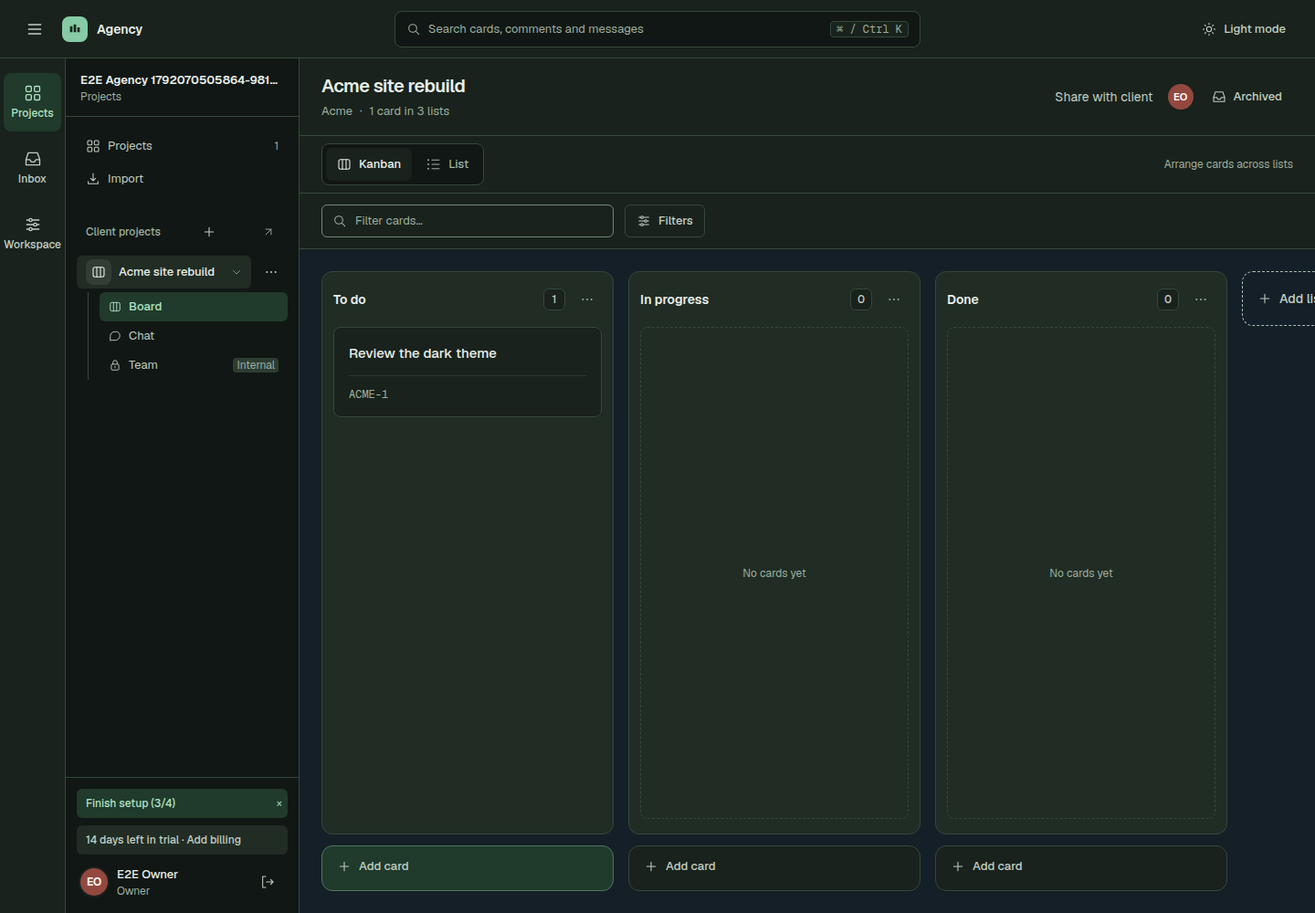
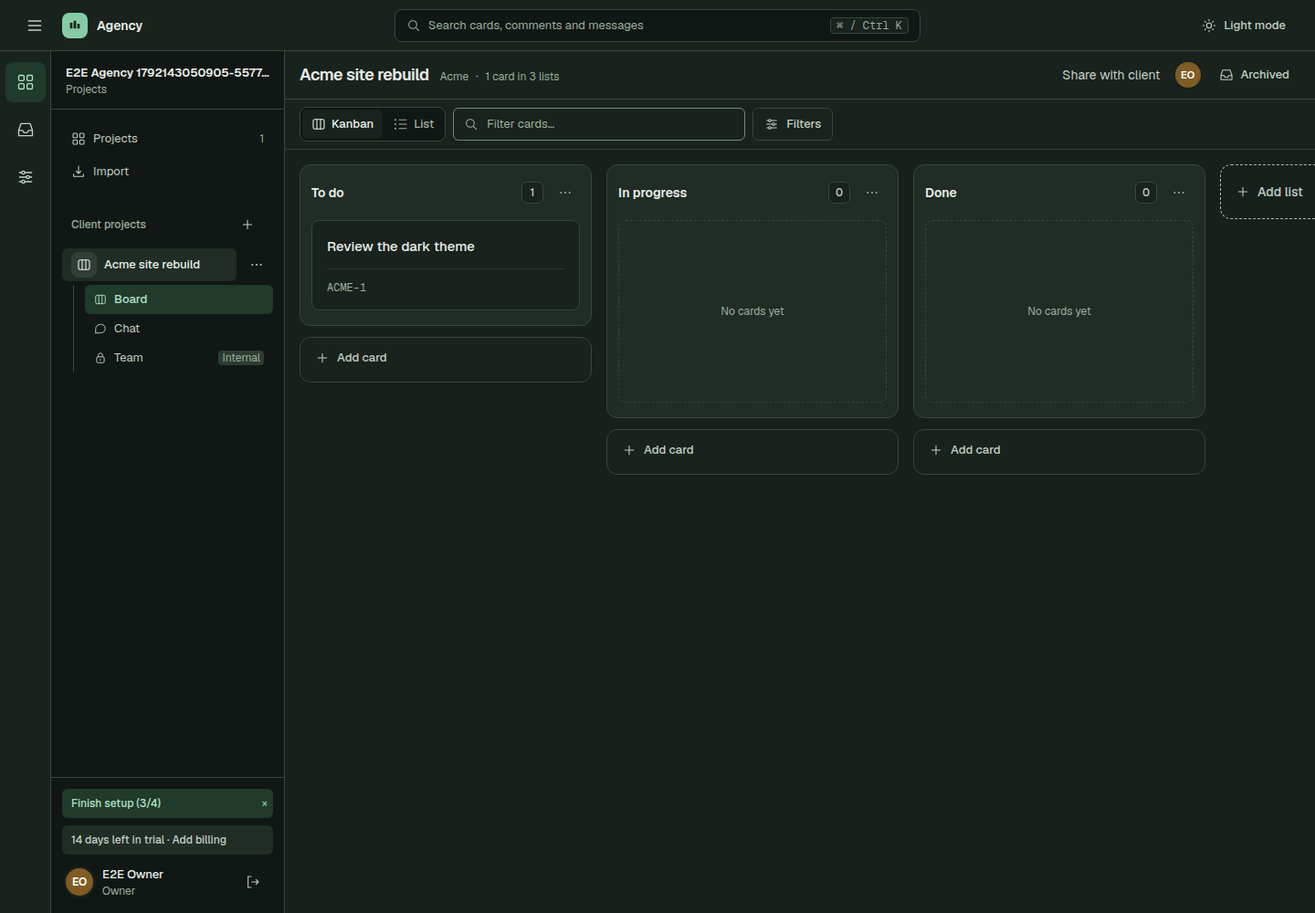
Compact board controls and size Kanban columns to content

diff --git a/src/components/board/board.tsx b/src/components/board/board.tsx
@@ -11,6 +11,7 @@ import {
   useSensor,
   useSensors,
   type CollisionDetection,
+  type ClientRect,
   type KeyboardCoordinateGetter,
   type DragEndEvent,
   type DragOverEvent,
@@ -52,11 +53,20 @@ function resolveOver(board: Board, overId: string): { listId: string; index: num
   return found ? { listId: found.list.id, index: found.index } : null;
 }
 
-/** Lists only collide with lists; cards collide with cards and list bodies. */
+/** Compare list headers (60px), so columns with different card counts have the same drag target. */
+const listHeaderRect = (rect: ClientRect): ClientRect => ({
+  left: rect.left, right: rect.right, width: rect.width,
+  top: rect.top, bottom: rect.top + 60, height: 60,
+});
+
+/** Lists only collide with list headers; cards collide with cards and list bodies. */
 const collision: CollisionDetection = (args) => {
   const isList = args.active.data.current?.type === 'list';
   const droppableContainers = args.droppableContainers.filter((c) => (c.data.current?.type === 'list') === isList);
-  return isList ? closestCenter({ ...args, droppableContainers }) : closestCorners({ ...args, droppableContainers });
+  return isList ? closestCenter({
+    ...args, droppableContainers, collisionRect: listHeaderRect(args.collisionRect),
+    droppableRects: new Map([...args.droppableRects].map(([id, rect]) => [id, listHeaderRect(rect)])),
+  }) : closestCorners({ ...args, droppableContainers });
 };
 
 /** List keyboard moves must ignore the inset card-drop zones inside each list. */
@@ -64,8 +74,11 @@ const boardKeyboardCoordinates: KeyboardCoordinateGetter = (event, args) => {
   if (args.context.active?.data.current?.type !== 'list') return sortableKeyboardCoordinates(event, args);
   const droppableRects = new Map([...args.context.droppableRects].filter(([id]) =>
     args.context.droppableContainers.get(id)?.data.current?.type === 'list',
-  ));
-  return sortableKeyboardCoordinates(event, { ...args, context: { ...args.context, droppableRects } });
+  ).map(([id, rect]) => [id, listHeaderRect(rect)]));
+  return sortableKeyboardCoordinates(event, { ...args, context: {
+    ...args.context, droppableRects,
+    collisionRect: args.context.collisionRect ? listHeaderRect(args.context.collisionRect) : null,
+  } });
 };
 
 export function BoardScreen({ boardId, projectId }: { boardId: string; projectId: string }) {
@@ -196,12 +209,12 @@ export function BoardScreen({ boardId, projectId }: { boardId: string; projectId
   return (
     <div data-testid="board-canvas" className="flex h-full bg-board-canvas">
       <div className="flex min-w-0 flex-1 flex-col">
-        <div className="flex shrink-0 flex-wrap items-center gap-x-4 gap-y-3 border-b border-border bg-surface px-4 py-4 sm:px-6">
-          <div className="min-w-0 grow basis-48">
-            <h1 className="truncate text-xl font-semibold leading-7" data-testid="board-title">
+        <div data-testid="board-project-header" className="flex shrink-0 flex-wrap items-center gap-x-4 gap-y-1 border-b border-border bg-surface px-4 py-2">
+          <div className="flex min-w-0 grow basis-40 flex-wrap items-baseline gap-x-3 gap-y-0.5">
+            <h1 className="min-w-0 max-w-full truncate text-lg font-semibold leading-6" data-testid="board-title">
               {shown.project.name}
             </h1>
-            <p className="mt-1 flex flex-wrap items-center gap-x-2 text-label text-muted-foreground">
+            <p className="flex min-w-0 flex-wrap items-center gap-x-2 text-caption text-muted-foreground">
               {shown.project.clientName ? <><span className="truncate">{shown.project.clientName}</span><span aria-hidden="true">·</span></> : null}
               <span>{totalCards} {totalCards === 1 ? 'card' : 'cards'} in {shown.lists.length} {shown.lists.length === 1 ? 'list' : 'lists'}</span>
             </p>
@@ -216,14 +229,12 @@ export function BoardScreen({ boardId, projectId }: { boardId: string; projectId
             <ArchivedCards boardId={boardId} cardHref={cardHref} />
           </div>
         </div>
-        <div className="flex shrink-0 flex-wrap items-center justify-between gap-3 border-b border-border bg-surface px-4 py-2 sm:px-6">
-          <div role="group" aria-label="Board view" className="inline-flex gap-1 rounded-lg border border-border bg-background p-1">
-            <button type="button" aria-pressed={view === 'kanban'} onClick={() => setView('kanban')} className={`ui-button tap ${view === 'kanban' ? 'bg-surface text-foreground shadow-sm' : 'text-muted-foreground hover:bg-subtle'}`}><Icon name="board" />Kanban</button>
-            <button type="button" aria-pressed={view === 'list'} onClick={() => setView('list')} className={`ui-button tap ${view === 'list' ? 'bg-surface text-foreground shadow-sm' : 'text-muted-foreground hover:bg-subtle'}`}><Icon name="list" />List</button>
+        <FilterBar filters={filters} onChange={setFilters} members={activeMembers} labels={labels.data?.data ?? []} leading={
+          <div role="group" aria-label="Board view" className="inline-flex shrink-0 gap-0.5 rounded-lg border border-border bg-background p-0.5">
+            <button type="button" aria-pressed={view === 'kanban'} onClick={() => setView('kanban')} className={`ui-button tap min-h-8 gap-1.5 px-2.5 ${view === 'kanban' ? 'bg-surface text-foreground shadow-sm' : 'text-muted-foreground hover:bg-subtle'}`}><Icon name="board" />Kanban</button>
+            <button type="button" aria-pressed={view === 'list'} onClick={() => setView('list')} className={`ui-button tap min-h-8 gap-1.5 px-2.5 ${view === 'list' ? 'bg-surface text-foreground shadow-sm' : 'text-muted-foreground hover:bg-subtle'}`}><Icon name="list" />List</button>
           </div>
-          <p className="text-caption text-muted-foreground">{view === 'list' ? 'Cards grouped by list' : 'Arrange cards across lists'}</p>
-        </div>
-        <FilterBar filters={filters} onChange={setFilters} members={activeMembers} labels={labels.data?.data ?? []} />
+        } />
 
         {view === 'kanban' && shown.lists.length ? (
           <div className="flex shrink-0 gap-2 overflow-x-auto border-b border-border bg-surface px-4 py-2 sm:hidden" role="tablist" aria-label="Lists">
@@ -242,10 +253,7 @@ export function BoardScreen({ boardId, projectId }: { boardId: string; projectId
           </div>
         ) : null}
 
-        {totalCards === 0 && !filtering ? (
-          <p className="mx-4 mt-4 shrink-0 rounded-lg border border-primary-border bg-primary-subtle px-4 py-3 text-label text-primary-text sm:mx-6">Add your first card to get started.</p>
-        ) : null}
-        {filtering ? <p className="mx-4 mt-3 shrink-0 text-caption text-muted-foreground sm:mx-6">{view === 'kanban' ? 'Filters are on — clear them to drag cards.' : 'Filters apply to cards in every list.'}</p> : null}
+        {filtering ? <p className="mx-4 mt-3 shrink-0 text-caption text-muted-foreground">{view === 'kanban' ? 'Filters are on — clear them to drag cards.' : 'Filters apply to cards in every list.'}</p> : null}
 
         {view === 'list' ? <BoardListView editingListId={editingListId} onListCreated={onListCreated} onListEditFinished={onListEditFinished} board={shown} filters={filters} now={now} cardHref={cardHref} /> : <DndContext
           sensors={sensors}
@@ -255,7 +263,7 @@ export function BoardScreen({ boardId, projectId }: { boardId: string; projectId
           onDragEnd={onDragEnd}
           onDragCancel={() => setDrag(null)}
         >
-          <div className="flex min-h-0 flex-1 items-start gap-4 overflow-auto p-4 sm:p-6" data-testid="board-lists">
+          <div className="flex min-h-0 flex-1 items-start gap-4 overflow-auto p-4" data-testid="board-lists">
             <SortableContext items={shown.lists.map((l) => `list:${l.id}`)} strategy={horizontalListSortingStrategy}>
               {shown.lists.map((l) => (
                 <ListColumn

diff --git a/e2e/list-header.spec.ts b/e2e/list-header.spec.ts
@@ -15,6 +15,18 @@ async function dragHeader(page: Page, source: Locator, destination: Locator, pad
   await page.mouse.up();
 }
 
+async function populateProgress(page: Page) {
+  const progress = list(page, 'In progress');
+  await progress.getByTestId('add-card-end').click();
+  for (const name of ['Review the client brief', 'Prepare the launch checklist', 'Check the final assets']) {
+    await progress.getByLabel('Card title').fill(name);
+    await progress.getByRole('button', { name: 'Add', exact: true }).click();
+    await expect(progress.getByRole('button', { name: new RegExp(name) })).toBeVisible();
+  }
+  await progress.getByRole('button', { name: 'Cancel', exact: true }).click();
+  return progress;
+}
+
 test('board canvas is distinct from the sidebar in light and dark themes', async ({ browser }, info) => {
   const { page } = await signupToBoard(browser, { viewport: { width: 1440, height: 1000 }, colorScheme: 'light' });
   const canvas = page.getByTestId('board-canvas');
@@ -31,7 +43,8 @@ test('board canvas is distinct from the sidebar in light and dark themes', async
 test('header padding and title both reorder columns while controls retain normal behavior', async ({ browser }) => {
   const { page } = await signupToBoard(browser, { viewport: { width: 1440, height: 1000 } });
   const todo = list(page, 'To do');
-  const progress = list(page, 'In progress');
+  const progress = await populateProgress(page);
+  expect((await progress.boundingBox())!.height).toBeGreaterThan((await todo.boundingBox())!.height);
   await expect(page.getByRole('button', { name: /^Move list/ })).toHaveCount(0);
   await dragHeader(page, todo.getByTestId('list-header'), progress.getByTestId('list-header'), true);
   await expect.poll(() => order(page)).toEqual(['List In progress', 'List To do', 'List Done']);
@@ -60,10 +73,15 @@ test('header padding and title both reorder columns while controls retain normal
 
 test('header title supports keyboard reorder, Escape cancellation and API failure recovery', async ({ browser }) => {
   const { page } = await signupToBoard(browser, { viewport: { width: 1440, height: 1000 } });
+  // Column height is content-driven: the neighbor must also be reachable when taller.
+  await populateProgress(page);
   const title = list(page, 'To do').getByRole('button', { name: 'To do', exact: true });
+  const todoId = await list(page, 'To do').getAttribute('data-list-id');
   await title.click({ trial: true });
   await title.focus(); await page.keyboard.press('Space');
   await expect(title).toHaveAttribute('aria-pressed', 'true');
+  // aria-pressed updates before DnD's first measurement; wait for its initial target.
+  await expect(page.getByRole('status')).toContainText(`over droppable area list:${todoId}`);
   const progressId = await list(page, 'In progress').getAttribute('data-list-id');
   await page.keyboard.press('ArrowRight');
   await expect(page.getByRole('status')).toContainText(`over droppable area list:${progressId}`);
@@ -73,6 +91,7 @@ test('header title supports keyboard reorder, Escape cancellation and API failur
   await title.click({ trial: true });
   await title.focus(); await page.keyboard.press('Space');
   await expect(title).toHaveAttribute('aria-pressed', 'true');
+  await expect(page.getByRole('status')).toContainText(`over droppable area list:${todoId}`);
   await page.keyboard.press('ArrowRight');
   await expect(page.getByRole('status')).toContainText(`over droppable area list:${progressId}`);
   await page.keyboard.press('Space');
@@ -82,6 +101,7 @@ test('header title supports keyboard reorder, Escape cancellation and API failur
   await title.click({ trial: true });
   await title.focus(); await page.keyboard.press('Space');
   await expect(title).toHaveAttribute('aria-pressed', 'true');
+  await expect(page.getByRole('status')).toContainText(`over droppable area list:${todoId}`);
   await page.keyboard.press('ArrowLeft');
   await expect(page.getByRole('status')).toContainText(`over droppable area list:${progressId}`);
   await page.keyboard.press('Space');

diff --git a/src/components/navigation/workspace-shell.tsx b/src/components/navigation/workspace-shell.tsx
@@ -48,19 +48,19 @@ export function WorkspaceShell({ children }: { children: ReactNode }) {
   return (
     <div className="flex h-dvh min-w-0 flex-col overflow-hidden">
       <a href="#workspace-content" className="sr-only z-50 rounded-md bg-surface p-3 text-primary focus:not-sr-only focus:fixed focus:left-4 focus:top-4">Skip to content</a>
-      <header aria-label="Application bar" data-testid="workspace-header" className="grid h-16 shrink-0 grid-cols-[auto_minmax(0,1fr)_auto] items-center gap-2 border-b border-border bg-surface px-3 sm:gap-4 sm:px-5 lg:grid-cols-[1fr_minmax(20rem,36rem)_1fr]">
+      <header aria-label="Application bar" data-testid="workspace-header" className="grid h-14 shrink-0 grid-cols-[auto_minmax(0,1fr)_auto] items-center gap-2 border-b border-border bg-surface px-3 sm:gap-4 sm:px-5 lg:grid-cols-[1fr_minmax(20rem,36rem)_1fr]">
         <div className="flex min-w-0 items-center gap-3">
           <Button variant="ghost" size="icon" className="lg:hidden" aria-label="Open navigation" aria-expanded={open} aria-haspopup="dialog" data-tour={projectId ? 'client-channel' : undefined} onClick={() => setOpen(true)}><Icon name="menu" className="size-5" /></Button>
           <Button variant="ghost" size="icon" className="hidden lg:inline-flex" aria-label={sidebarVisible ? 'Close sidebar' : 'Open sidebar'} aria-expanded={sidebarVisible} aria-controls="desktop-sidebar" onClick={() => setSidebarVisible((visible) => !visible)}><Icon name="menu" className="size-5" /></Button>
           <Link href={`/w/${ws.slug}/projects`} aria-label="Agency home" className="hidden min-w-0 items-center gap-2.5 rounded-md sm:flex"><BrandMark /><span className="truncate text-body font-semibold">Agency</span></Link>
         </div>
-        <button type="button" aria-label="Search workspace" onClick={search} className="tap flex min-h-10 min-w-0 items-center gap-2 rounded-lg border border-border bg-background px-3 text-label text-muted-foreground hover:border-input hover:bg-subtle">
+        <button type="button" aria-label="Search workspace" onClick={search} className="tap flex min-h-9 min-w-0 items-center gap-2 rounded-lg border border-border bg-background px-3 text-label text-muted-foreground hover:border-input hover:bg-subtle">
           <Icon name="search" /><span className="truncate">Search<span className="hidden sm:inline"> cards, comments and messages</span></span><kbd className="ml-auto hidden shrink-0 rounded border border-border bg-surface px-1.5 text-caption sm:inline">⌘ / Ctrl K</kbd>
         </button>
         <div className="justify-self-end"><ThemeToggle /></div>
       </header>
       <div className="flex min-h-0 min-w-0 flex-1">
-        <aside aria-label="Module rail" className="hidden w-[72px] shrink-0 border-r border-border bg-surface lg:block">
+        <aside aria-label="Module rail" className="hidden w-14 shrink-0 border-r border-border bg-surface lg:block">
           <ModuleRail activeModule={activeModule} />
         </aside>
         <aside id="desktop-sidebar" aria-label="Workspace sidebar" className={`${sidebarVisible ? 'hidden lg:block' : 'hidden'} w-64 shrink-0 border-r border-border bg-background`}>
@@ -68,7 +68,7 @@ export function WorkspaceShell({ children }: { children: ReactNode }) {
         </aside>
         {open ? <NavigationDrawer onClose={close}>
           <div className="flex h-full min-w-0">
-            <div className="w-[72px] shrink-0 border-r border-border bg-surface"><ModuleRail activeModule={activeModule} onNavigate={close} /></div>
+            <div className="w-14 shrink-0 border-r border-border bg-surface"><ModuleRail activeModule={activeModule} onNavigate={close} /></div>
             <div className="min-w-0 flex-1"><WorkspaceSidebar data={data} projectId={projectId} activeModule={activeModule} onNavigate={close} onClose={close} /></div>
           </div>
         </NavigationDrawer> : null}

diff --git a/e2e/board-list-view.spec.ts b/e2e/board-list-view.spec.ts
@@ -34,8 +34,19 @@ test('Add list creates a full column immediately and focuses its inline name wit
   const [tileBox, columnBox, headerBox, areaBox, emptyBox] = await Promise.all([tile.boundingBox(), column.boundingBox(), column.getByTestId('list-header').boundingBox(), column.getByTestId('list-cards').boundingBox(), column.getByTestId('list-empty-state').boundingBox()]);
   expect(tileBox!.width).toBe(columnBox!.width); expect(tileBox!.width).toBe(320);
   expect(tileBox!.height).toBe(headerBox!.height); expect(tileBox!.height).toBe(60);
-  expect(emptyBox!.height).toBeGreaterThan(200);
+  expect(emptyBox!.height).toBeGreaterThanOrEqual(200);
+  expect(emptyBox!.height).toBeLessThanOrEqual(201);
+  expect(columnBox!.height).toBeLessThan(360);
   expect(Math.abs(areaBox!.height - 4 - emptyBox!.height)).toBeLessThan(2);
+  // Board controls share one compact row, leaving the work area close to the app bar.
+  const toolbar = page.getByTestId('board-toolbar');
+  const views = toolbar.getByRole('group', { name: 'Board view', exact: true });
+  const search = toolbar.getByRole('searchbox', { name: 'Filter cards' });
+  const [toolbarBox, viewsBox, searchBox, projectBox, barBox, listsBox] = await Promise.all([toolbar.boundingBox(), views.boundingBox(), search.boundingBox(), page.getByTestId('board-project-header').boundingBox(), page.getByTestId('workspace-header').boundingBox(), page.getByTestId('board-lists').boundingBox()]);
+  expect(toolbarBox!.height).toBeLessThanOrEqual(56);
+  expect(projectBox!.height).toBeLessThanOrEqual(56);
+  expect(Math.abs(viewsBox!.y + viewsBox!.height / 2 - searchBox!.y - searchBox!.height / 2)).toBeLessThan(2);
+  expect(listsBox!.y - barBox!.height).toBeLessThanOrEqual(112);
   await page.screenshot({ path: info.outputPath('kanban-empty-height.png'), fullPage: true, animations: 'disabled', style: 'nextjs-portal { visibility: hidden; }' });
   await page.route('**/api/v1/boards/*/lists', (route) => route.fulfill({ status: 500, json: { error: { code: 'internal', message: 'Could not create the list.' } } }));
   await tile.click();
@@ -51,7 +62,7 @@ test('Add list creates a full column immediately and focuses its inline name wit
   await expect(name).toHaveValue('New list');
   expect(await name.evaluate((element: HTMLInputElement) => element.selectionStart === 0 && element.selectionEnd === element.value.length)).toBe(true);
   await expect(created.getByRole('button', { name: 'Cancel', exact: true })).toHaveCount(0);
-  await page.screenshot({ path: info.outputPath('list-created-inline.png'), fullPage: true, animations: 'disabled', style: 'nextjs-portal { visibility: hidden; }' });
+  await page.screenshot({ path: info.outputPath('list-created-inline.png'), fullPage: true, animations: 'disabled', style: 'nextjs-portal, [data-testid="toast"] { visibility: hidden; }' });
   await page.route('**/api/v1/lists/*', async (route) => {
     if (route.request().method() === 'PATCH') await route.fulfill({ status: 500, json: { error: { code: 'internal', message: 'Could not save the list name.' } } });
     else await route.continue();

diff --git a/src/components/navigation/workspace-sidebar.tsx b/src/components/navigation/workspace-sidebar.tsx
@@ -78,7 +78,7 @@ export function WorkspaceSidebar({ data, projectId, activeModule, onNavigate, on
           </nav>
 
           <nav aria-label="Projects" className="mt-6">
-            <div className="mb-2 flex items-center justify-between px-2.5 text-caption font-medium text-muted-foreground"><span>Client projects</span><Button variant="ghost" size="icon" aria-label="Add project" onClick={() => setCreating(true)}><Icon name="plus" /></Button><Link href={`${base}/projects`} onClick={onNavigate} aria-label="View all projects" className="tap inline-flex items-center rounded px-1 hover:text-primary"><Icon name="arrow" className="size-3.5" /></Link></div>
+            <div className="mb-2 flex items-center justify-between px-2.5 text-caption font-medium text-muted-foreground"><span>Client projects</span><Button variant="ghost" size="icon" aria-label="Add project" onClick={() => setCreating(true)}><Icon name="plus" /></Button></div>
             {data.pending ? <p role="status" className="px-2.5 py-2 text-caption text-muted-foreground">Loading projects…</p> : null}
             {data.error ? <div role="alert" className="space-y-2 rounded-md border border-danger-border bg-danger-subtle p-2.5 text-caption text-danger-text"><p>{data.error}</p><Button variant="secondary" size="sm" onClick={data.retry}>Try again</Button></div> : null}
             {!data.pending && !data.error && data.projects.length === 0 ? <p className="px-2.5 py-2 text-caption text-muted-foreground">Your client projects will appear here.</p> : null}
@@ -99,7 +99,6 @@ export function WorkspaceSidebar({ data, projectId, activeModule, onNavigate, on
                         <span className={`flex size-7 shrink-0 items-center justify-center rounded-lg text-foreground ${PROJECT_ICON_BG[project.color] ?? 'bg-subtle'}`}><Icon name="board" className="size-4" /></span>
                         <span className="min-w-0 flex-1 truncate">{project.name}</span>
                         {unread ? <UnreadDot label={`Unread messages in ${project.name}`} /> : null}
-                        {current ? <Icon name="chevron" className="size-3 rotate-90 text-muted-foreground" /> : null}
                       </Link>
                       <ProjectMenu project={project} onNavigate={onNavigate} />
                     </div>

diff --git a/src/components/board/filter-bar.tsx b/src/components/board/filter-bar.tsx
@@ -1,6 +1,6 @@
 'use client';
 
-import { useState } from 'react';
+import { useState, type ReactNode } from 'react';
 import { Icon } from '@/components/icon';
 import { Avatar, Input, LABEL_BG } from '@/components/ui';
 import { EMPTY_FILTERS, isFiltering, type BoardFilters, type DueFilter } from '@/lib/filters';
@@ -13,18 +13,21 @@ export function FilterBar({
   onChange,
   members,
   labels,
+  leading,
 }: {
   filters: BoardFilters;
   onChange: (f: BoardFilters) => void;
   members: Member[];
   labels: Label[];
+  leading?: ReactNode;
 }) {
   const [open, setOpen] = useState(isFiltering(filters));
   const active = isFiltering(filters);
   return (
-    <div className="shrink-0 border-b border-border bg-surface px-4 py-3 sm:px-6">
-      <div className="flex flex-wrap items-center gap-3">
-        <div className="relative min-w-0 flex-1 sm:max-w-xs">
+    <div data-testid="board-toolbar" className="shrink-0 border-b border-border bg-surface px-4 py-2">
+      <div className="flex flex-wrap items-center gap-2">
+        {leading}
+        <div className="relative order-last w-full min-w-0 sm:order-none sm:w-auto sm:min-w-32 sm:flex-1 sm:max-w-xs">
           <Icon name="search" className="pointer-events-none absolute left-3 top-1/2 size-4 -translate-y-1/2 text-muted-foreground" />
           <Input
             type="search"
@@ -39,7 +42,7 @@ export function FilterBar({
           type="button"
           aria-expanded={open}
           onClick={() => setOpen((o) => !o)}
-          className={`ui-button tap border border-border ${active ? 'bg-primary-muted text-primary-text' : 'text-secondary-foreground hover:bg-subtle'}`}
+          className={`ui-button tap ml-auto border border-border sm:ml-0 ${active ? 'bg-primary-muted text-primary-text' : 'text-secondary-foreground hover:bg-subtle'}`}
         >
           <Icon name="settings" />Filters{active ? <span className="size-1.5 rounded-full bg-primary" aria-label="Active filters" /> : null}
         </button>

diff --git a/e2e/navigation.spec.ts b/e2e/navigation.spec.ts
@@ -8,13 +8,15 @@ test('the sidebar owns workspace and project destinations while headers retain l
   const rail = page.getByRole('complementary', { name: 'Module rail' });
   const modules = rail.getByRole('navigation', { name: 'Main modules' });
   await expect(rail).toBeVisible();
-  expect((await rail.boundingBox())!.width).toBe(72);
+  expect((await rail.boundingBox())!.width).toBe(56);
   const [railBox, sidebarBox] = await Promise.all([rail.boundingBox(), sidebar.boundingBox()]);
   expect(railBox!.x + railBox!.width).toBe(sidebarBox!.x);
   await expect(modules.getByRole('link', { name: 'Projects', exact: true })).toHaveAttribute('aria-current', 'location');
   await expect(sidebar.getByRole('link', { name: 'Members', exact: true })).toHaveCount(0);
   await expect(sidebar.getByRole('link', { name: 'Board', exact: true })).toHaveAttribute('aria-current', 'page');
   await expect(sidebar.getByTestId('internal-badge')).toHaveText('Internal');
+  await expect(sidebar.getByRole('link', { name: 'View all projects' })).toHaveCount(0);
+  await expect(sidebar.getByRole('button', { name: 'Add project', exact: true })).toBeVisible();
   await expect(page.getByTestId('workspace-header').getByRole('navigation')).toHaveCount(0);
   await expect(page.getByRole('button', { name: 'Share with client' })).toBeVisible();
 
@@ -92,7 +94,7 @@ test('mobile drawer traps focus, closes on navigation/Escape/backdrop, and hands
 
   await trigger.click();
   const modules = drawer.getByRole('navigation', { name: 'Main modules' });
-  expect(await drawer.getByTestId('module-rail').evaluate((element) => element.parentElement!.getBoundingClientRect().width)).toBe(72);
+  expect(await drawer.getByTestId('module-rail').evaluate((element) => element.parentElement!.getBoundingClientRect().width)).toBe(56);
   await modules.getByRole('link', { name: 'Workspace', exact: true }).click();
   await expect(drawer).toHaveCount(0);
   await expect(page).toHaveURL(/\/settings\/members$/);

diff --git a/src/components/board/list-column.tsx b/src/components/board/list-column.tsx
@@ -32,7 +32,7 @@ export function ListColumn({ list, cards, board, now, cardHref, dndDisabled, sta
       aria-label={`List ${list.name}`}
       data-testid="list-column"
       data-list-id={list.id}
-      className={`h-full max-h-full min-h-64 w-full shrink-0 flex-col gap-3 sm:w-80 ${sortable.isDragging ? 'opacity-40' : ''} ${className}`}
+      className={`max-h-full min-h-0 w-full shrink-0 flex-col gap-3 sm:w-80 ${sortable.isDragging ? 'opacity-40' : ''} ${className}`}
     >
       <div data-testid="list-surface" className="flex min-h-0 flex-1 flex-col rounded-xl border border-border bg-subtle pb-3">
         <ListHeader startEditing={startEditing} onEditingFinished={onEditingFinished} list={list} count={cards.length} boardId={board.id} drag={{
@@ -41,7 +41,7 @@ export function ListColumn({ list, cards, board, now, cardHref, dndDisabled, sta
           disabled: dndDisabled,
         }} />
         <div ref={drop.setNodeRef} data-testid="list-cards" className="flex min-h-0 flex-1 flex-col gap-3 overflow-y-auto overscroll-contain px-3 pb-1">
-          {cards.length === 0 ? <p data-testid="list-empty-state" className="flex min-h-24 flex-1 items-center justify-center rounded-lg border border-dashed border-border px-3 py-6 text-center text-caption text-muted-foreground">{list.cards.length ? 'No matching cards' : 'No cards yet'}</p> : null}
+          {cards.length === 0 ? <p data-testid="list-empty-state" className="flex min-h-[200px] shrink-0 items-center justify-center rounded-lg border border-dashed border-border px-3 py-6 text-center text-caption text-muted-foreground">{list.cards.length ? 'No matching cards' : 'No cards yet'}</p> : null}
           <SortableContext items={cards.map((c) => c.id)} strategy={verticalListSortingStrategy}>
             {cards.map((c) => (
               <SortableCard key={c.id} card={c} projectKey={board.project.key} now={now} href={cardHref(c.id)} disabled={dndDisabled} />

diff --git a/src/components/navigation/module-rail.tsx b/src/components/navigation/module-rail.tsx
@@ -6,19 +6,19 @@ import { NotificationBell } from '@/components/notifications';
 import { useWorkspace } from '@/lib/workspace';
 import type { WorkspaceModule } from './workspace-modules';
 
-/** The 72px rail switches modules; the neighboring sidebar owns their details. */
+/** The 56px rail switches modules; the neighboring sidebar owns their details. */
 export function ModuleRail({ activeModule, onNavigate }: { activeModule: WorkspaceModule; onNavigate?: () => void }) {
   const ws = useWorkspace();
   const base = `/w/${ws.slug}`;
   return (
     <div className="flex h-full flex-col" data-testid="module-rail">
-      <nav aria-label="Main modules" className="flex min-h-0 flex-1 flex-col items-center gap-2 overflow-y-auto px-1 py-4">
+      <nav aria-label="Main modules" className="flex min-h-0 flex-1 flex-col items-center gap-2 overflow-y-auto px-1 py-3">
         <Link href={`${base}/projects`} onClick={onNavigate} title="Projects" aria-current={activeModule === 'projects' ? 'location' : undefined} className="ui-module-link tap">
-          <Icon name="projects" className="size-5" /><span>Projects</span>
+          <Icon name="projects" className="size-5" /><span className="sr-only">Projects</span>
         </Link>
         <NotificationBell active={activeModule === 'inbox'} onNavigate={onNavigate} />
         <Link href={`${base}/settings/members`} onClick={onNavigate} title="Workspace" aria-current={activeModule === 'workspace' ? 'location' : undefined} className="ui-module-link tap">
-          <Icon name="settings" className="size-5" /><span>Workspace</span>
+          <Icon name="settings" className="size-5" /><span className="sr-only">Workspace</span>
         </Link>
       </nav>
     </div>

diff --git a/src/app/globals.css b/src/app/globals.css
@@ -48,7 +48,7 @@
   .ui-page { @apply mx-auto w-full max-w-5xl px-4 py-6 sm:px-8 sm:py-8; }
   .ui-nav-link { @apply flex min-h-8 items-center gap-2 rounded-md px-2.5 py-1 text-label text-secondary-foreground hover:bg-subtle hover:text-foreground; }
   .ui-nav-link[aria-current='page'] { @apply bg-primary-subtle font-medium text-primary-text; }
-  .ui-module-link { @apply flex min-h-16 w-full max-w-16 shrink-0 flex-col items-center justify-center gap-1 rounded-lg py-2 text-caption font-medium text-secondary-foreground hover:bg-subtle hover:text-foreground active:bg-muted focus-visible:outline-offset-1; }
+  .ui-module-link { @apply flex h-11 w-11 shrink-0 items-center justify-center rounded-lg text-secondary-foreground hover:bg-subtle hover:text-foreground active:bg-muted focus-visible:outline-offset-1; }
   .ui-module-link[aria-current='location'] { @apply bg-primary-subtle text-primary-text; }
   .ui-tab { @apply inline-flex min-h-8 items-center justify-center gap-2 rounded-md px-3 py-1 text-label text-secondary-foreground hover:bg-subtle; }
   .ui-tab[aria-current='page'], .ui-tab[aria-selected='true'] { @apply bg-primary-subtle font-medium text-primary-text; }

diff --git a/src/components/board/list-view.tsx b/src/components/board/list-view.tsx
@@ -18,7 +18,7 @@ export function BoardListView({ board, filters, now, cardHref, editingListId, on
   editingListId: string | null; onListCreated: (id: string) => void; onListEditFinished: (id: string) => void;
 }) {
   const pathname = usePathname();
-  return <div data-testid="board-list-view" className="@container min-h-0 flex-1 overflow-y-auto overscroll-contain p-4 sm:p-6">
+  return <div data-testid="board-list-view" className="@container min-h-0 flex-1 overflow-y-auto overscroll-contain p-4">
     <div className="space-y-6">
       {board.lists.map((list) => <ListGroup startEditing={editingListId === list.id} onEditingFinished={() => onListEditFinished(list.id)} key={list.id} list={list} cards={list.cards.filter((card) => matchesFilters(card, filters, now))} board={board} now={now} cardHref={cardHref} pathname={pathname} />)}
       <AddList boardId={board.id} onCreated={onListCreated} layout="list" />

diff --git a/e2e/app-bar.spec.ts b/e2e/app-bar.spec.ts
@@ -8,7 +8,7 @@ test('app bar spans the viewport with centered search and a reopenable contextua
   const rail = page.getByRole('complementary', { name: 'Module rail' });
   const search = bar.getByRole('button', { name: 'Search workspace' });
   const [barBox, searchBox, railBox, expanded] = await Promise.all([bar.boundingBox(), search.boundingBox(), rail.boundingBox(), page.locator('#workspace-content').boundingBox()]);
-  expect(barBox!.x).toBe(0); expect(barBox!.width).toBe(1440); expect(barBox!.height).toBe(64);
+  expect(barBox!.x).toBe(0); expect(barBox!.width).toBe(1440); expect(barBox!.height).toBe(56);
   expect(Math.abs(searchBox!.x + searchBox!.width / 2 - 720)).toBeLessThan(2);
   expect(railBox!.y).toBe(barBox!.height);
   await expect(sidebar.getByRole('button', { name: /Search/ })).toHaveCount(0);
